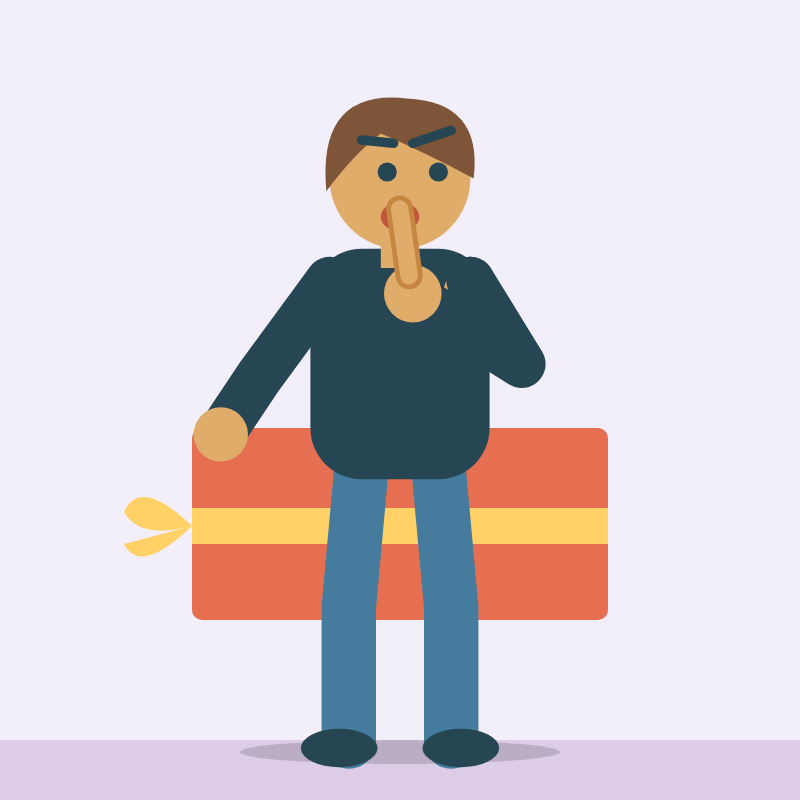
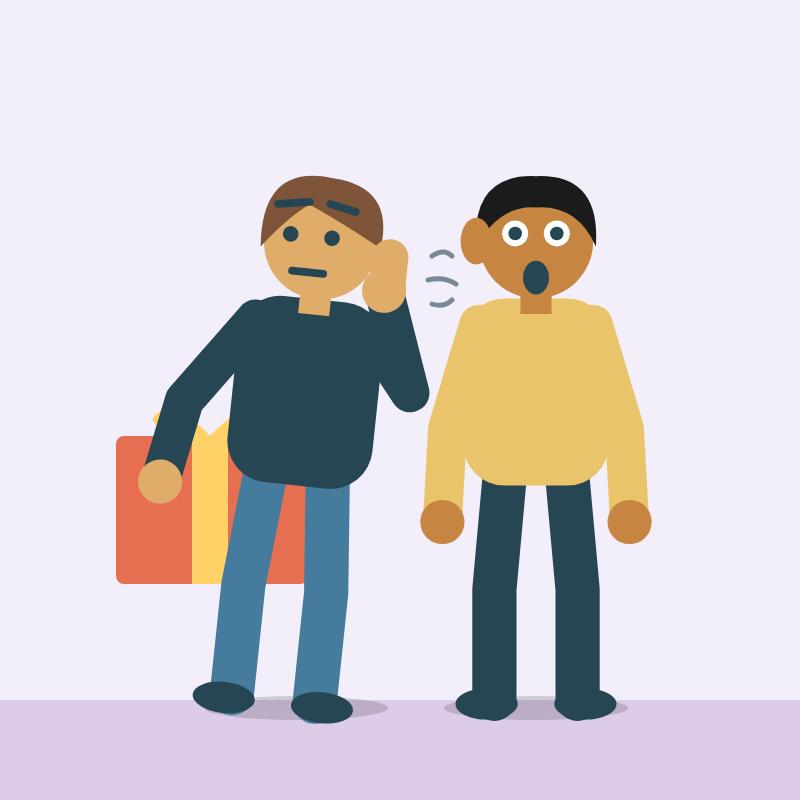
Redraw the pictures for "secretive" and "collaborators"
secretive: one person whispers behind a cupped hand, glancing over their
shoulder, with a box hidden behind their back. collaborators: three
people build one robot together, fitting an arm, tightening a bolt and
reading the plan.

Claude-Session: https://claude.ai/code/session_012AFdoXqDmyhe4pDydHQ1Qn

diff --git a/tools/vocab_drawings/batch_02.py b/tools/vocab_drawings/batch_02.py
@@ -725,25 +725,46 @@ def oddity():
 
 
 def collaborators():
-    b = ['<rect y="320" width="400" height="80" fill="#ced4da"/>']
-    # the middle partner stands behind the table
-    b.append(person(200, 318, 1.12, SKIN[2], "#fff", "#264653", "#1b1b1b", "short",
-                    larm=((-20, 20), (-30, 50)), rarm=((20, 20), (30, 50)), mood="smile"))
-    b += ['<rect x="40" y="240" width="320" height="14" rx="4" fill="#7f5539"/>',
-          '<rect x="56" y="254" width="12" height="80" fill="#6f4518"/><rect x="332" y="254" width="12" height="80" '
-          'fill="#6f4518"/>',
-          gear(152, 172, 28, 8, 10, "#e9c46a"), gear(250, 178, 20, 6, 0, "#f4a261"),
-          '<rect x="140" y="180" width="120" height="60" rx="8" fill="#457b9d"/>',
-          '<rect x="154" y="192" width="44" height="26" rx="4" fill="#a8dadc"/>',
-          '<circle cx="228" cy="200" r="8" fill="#e63946"/><circle cx="228" cy="224" r="6" fill="#ffd166"/>']
-    b.append(person(70, 362, .92, SKIN[0], "#fff", "#457b9d", "#e9c46a", "bun",
-                    larm=((-10, 40), (-12, 76)), rarm=((36, -10), (70, -20)), mood="smile"))
-    b.append(person(330, 362, .92, SKIN[3], "#fff", "#264653", "#1b1b1b", "short",
-                    rarm=((10, 40), (12, 76)), larm=((-36, -10), (-74, -18)), mood="smile"))
-    b += ['<g transform="rotate(-30 146 204)"><rect x="122" y="198" width="44" height="10" rx="4" fill="#6c757d"/>'
-          '<circle cx="120" cy="203" r="10" fill="#6c757d"/><circle cx="118" cy="203" r="5" fill="#fff"/></g>',
-          '<path d="M258 206 Q270 206 268 214" fill="none" stroke="#343a40" stroke-width="5"/>',
-          '<rect x="250" y="190" width="14" height="22" rx="3" fill="#2a9d8f"/>']
+    b = ['<rect y="340" width="400" height="60" fill="#ced4da"/>', shadow(190, 344, 60), shadow(70, 352, 30, 5),
+         shadow(300, 352, 30, 5), shadow(356, 352, 26, 5),
+         # the robot they are building together
+         '<rect x="166" y="296" width="18" height="46" fill="#6c757d"/><rect x="198" y="296" width="18" height="46" '
+         'fill="#6c757d"/>',
+         '<rect x="158" y="334" width="30" height="12" rx="5" fill="#495057"/>'
+         '<rect x="194" y="334" width="30" height="12" rx="5" fill="#495057"/>',
+         '<rect x="140" y="186" width="100" height="116" rx="14" fill="#457b9d"/>',
+         '<rect x="158" y="204" width="64" height="40" rx="6" fill="#a8dadc"/>',
+         '<circle cx="170" cy="270" r="8" fill="#e63946"/><circle cx="192" cy="270" r="8" fill="#ffd166"/>'
+         '<circle cx="214" cy="270" r="8" fill="#52b788"/>',
+         '<rect x="182" y="174" width="16" height="14" fill="#6c757d"/>',
+         '<rect x="152" y="120" width="76" height="58" rx="12" fill="#a8dadc"/>',
+         '<circle cx="174" cy="148" r="10" fill="#fff"/><circle cx="206" cy="148" r="10" fill="#fff"/>',
+         f'<circle cx="176" cy="149" r="5" fill="{INK}"/><circle cx="208" cy="149" r="5" fill="{INK}"/>',
+         '<path d="M178 166 H202" stroke="#457b9d" stroke-width="4" stroke-linecap="round"/>',
+         '<path d="M190 120 V100" stroke="#6c757d" stroke-width="4"/><circle cx="190" cy="96" r="7" fill="#e63946"/>',
+         # its right arm, already fitted
+         '<path d="M240 204 Q262 214 262 250" fill="none" stroke="#6c757d" stroke-width="14" stroke-linecap="round"/>',
+         '<path d="M252 256 l10 12 l10 -12" fill="none" stroke="#495057" stroke-width="5" stroke-linecap="round"/>']
+    # left: fitting the other arm
+    b.append(person(70, 350, .9, SKIN[0], "#fff", "#457b9d", "#e9c46a", "bun",
+                    larm=((-10, 40), (-12, 76)), rarm=((16, 14), (34, -6)), mood="smile"))
+    b += ['<rect x="100" y="198" width="48" height="16" rx="8" fill="#6c757d"/>',
+          f'<circle cx="120" cy="213" r="8" fill="{SKIN[0]}"/>']
+    # middle right: tightening a bolt
+    b.append(person(300, 350, .9, SKIN[3], "#fff", "#264653", "#1b1b1b", "short",
+                    larm=((-14, 14), (-22, -8)), rarm=((10, 40), (12, 76)), mood="smile"))
+    b += ['<g transform="rotate(-20 250 210)"><rect x="244" y="205" width="34" height="10" rx="4" fill="#adb5bd"/>'
+          '<circle cx="244" cy="210" r="10" fill="#adb5bd"/><circle cx="242" cy="210" r="5" fill="#457b9d"/></g>',
+          f'<circle cx="260" cy="211" r="8" fill="{SKIN[3]}"/>']
+    # right: reading out the plan
+    b.append(person(358, 350, .85, SKIN[1], "#fff", "#7f5539", "#5c4033", "side",
+                    larm=((-14, 34), (-14, 64)), rarm=((12, 34), (14, 64)), mood="smile"))
+    b += ['<rect x="322" y="242" width="72" height="54" rx="3" fill="#4895ef"/>',
+          '<rect x="346" y="250" width="22" height="18" fill="none" stroke="#fff" stroke-width="2"/>',
+          '<rect x="340" y="270" width="34" height="18" fill="none" stroke="#fff" stroke-width="2"/>',
+          '<path d="M330 250 h10 M330 258 h10 M378 252 h10 M378 262 h10" stroke="#fff" stroke-width="2"/>',
+          f'<circle cx="330" cy="292" r="7" fill="{SKIN[1]}"/><circle cx="386" cy="292" r="7" fill="{SKIN[1]}"/>',
+          sparkle(120, 140, 10, "#ffd166"), sparkle(270, 120, 8, "#ffd166")]
     return svg(b, "#eef4ff")
 
 
@@ -762,19 +783,20 @@ def gear(cx, cy, R, teeth, rot, color):
 
 
 def secretive():
-    box = ('<rect x="96" y="214" width="208" height="96" rx="5" fill="#e76f51"/>'
-           '<rect x="96" y="254" width="208" height="18" fill="#ffd166"/>'
-           '<path d="M96 263 Q70 238 62 256 Q70 270 96 263 Q70 288 62 272 Z" fill="#ffd166"/>')
-    shh = ('<ellipse cx="0" cy="-166" rx="6" ry="4.5" fill="#c1553b"/>'
-           + limb(((22, -146), (38, -120), (6, -140)), "#264653", 15)
-           + f'<circle cx="4" cy="-142" r="9" fill="{SKIN[1]}"/>'
-           '<g transform="rotate(-8 2 -150)"><rect x="-1" y="-172" width="7" height="28" rx="3.5" fill="#e0ac69" '
-           'stroke="#c68642" stroke-width="1.5"/></g>')
-    b = ['<rect y="370" width="400" height="30" fill="#cdb4db" opacity=".6"/>',
-         shadow(200, 376, 80), box,
-         person(200, 374, 1.6, SKIN[1], "#264653", "#457b9d", "#7f5539", "side",
-                larm=((-22, 30), (-34, 48)), rarm=((0, 4),), mood="sidenm",
-                brows="M-12 -190 L-2 -189 M4 -189 L16 -193", extra=shh)]
+    box = ('<rect x="58" y="218" width="96" height="74" rx="4" fill="#e76f51"/>'
+           '<rect x="96" y="218" width="18" height="74" fill="#ffd166"/>'
+           '<path d="M105 218 Q84 196 76 210 Q84 222 105 218 Q126 196 134 210 Q126 222 105 218 Z" fill="#ffd166"/>')
+    cup = f'<rect x="20" y="-182" width="14" height="28" rx="7" fill="{SKIN[1]}"/>'
+    ear = f'<ellipse cx="-23" cy="-178" rx="6" ry="9" fill="{SKIN[2]}"/>'
+    b = ['<rect y="350" width="400" height="50" fill="#cdb4db" opacity=".6"/>',
+         shadow(148, 354, 46), shadow(268, 354, 46), box,
+         person(150, 352, 1.3, SKIN[1], "#264653", "#457b9d", "#7f5539", "side", rot=6,
+                larm=((-24, 34), (-30, 66)), rarm=((18, 22), (4, -16)), mood="left",
+                brows="M-18 -191 L-6 -193 M2 -193 L12 -191", extra=cup),
+         person(268, 352, 1.3, SKIN[2], "#e9c46a", "#264653", "#1b1b1b", "short", mood="wide",
+                larm=((-12, 40), (-14, 76)), rarm=((12, 40), (14, 76)), extra=ear),
+         f'<path d="M216 128 q6 -4 10 0 M214 140 q8 -2 14 2 M216 152 q6 2 10 -2" fill="none" stroke="{INK}" '
+         'stroke-width="2.5" stroke-linecap="round" opacity=".6"/>']
     return svg(b, "#f3effa")
 
 
